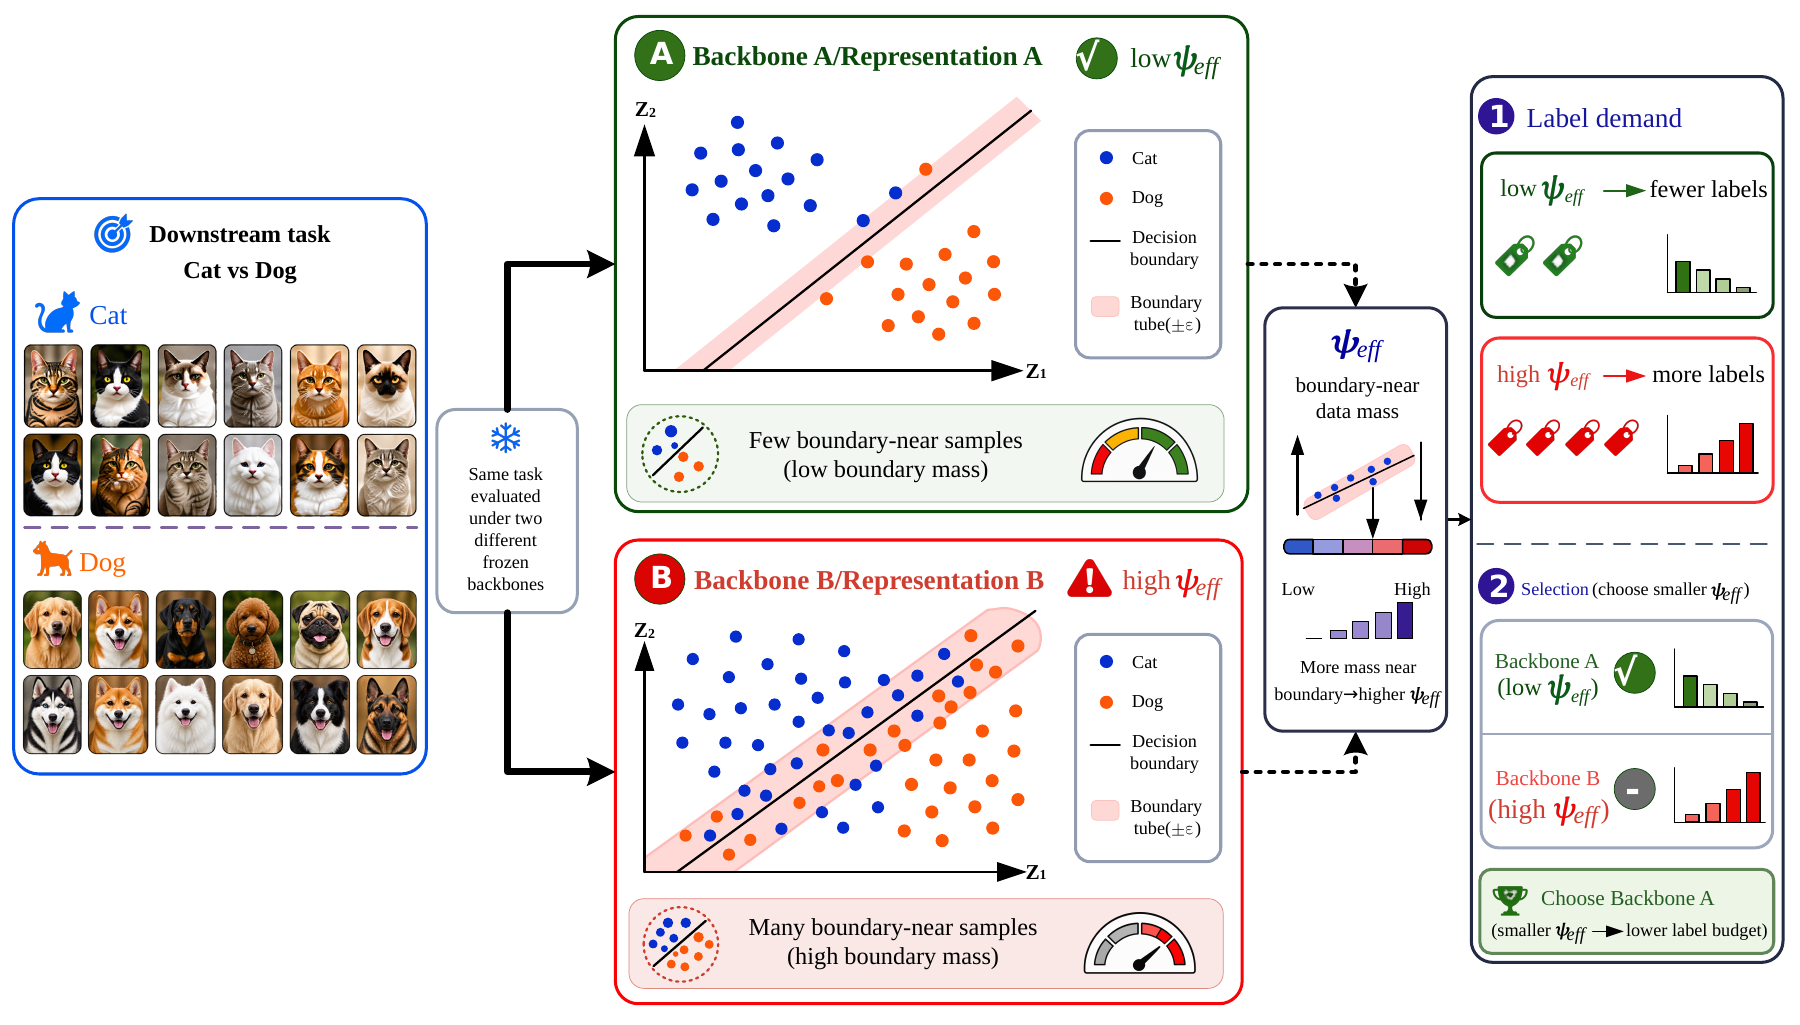
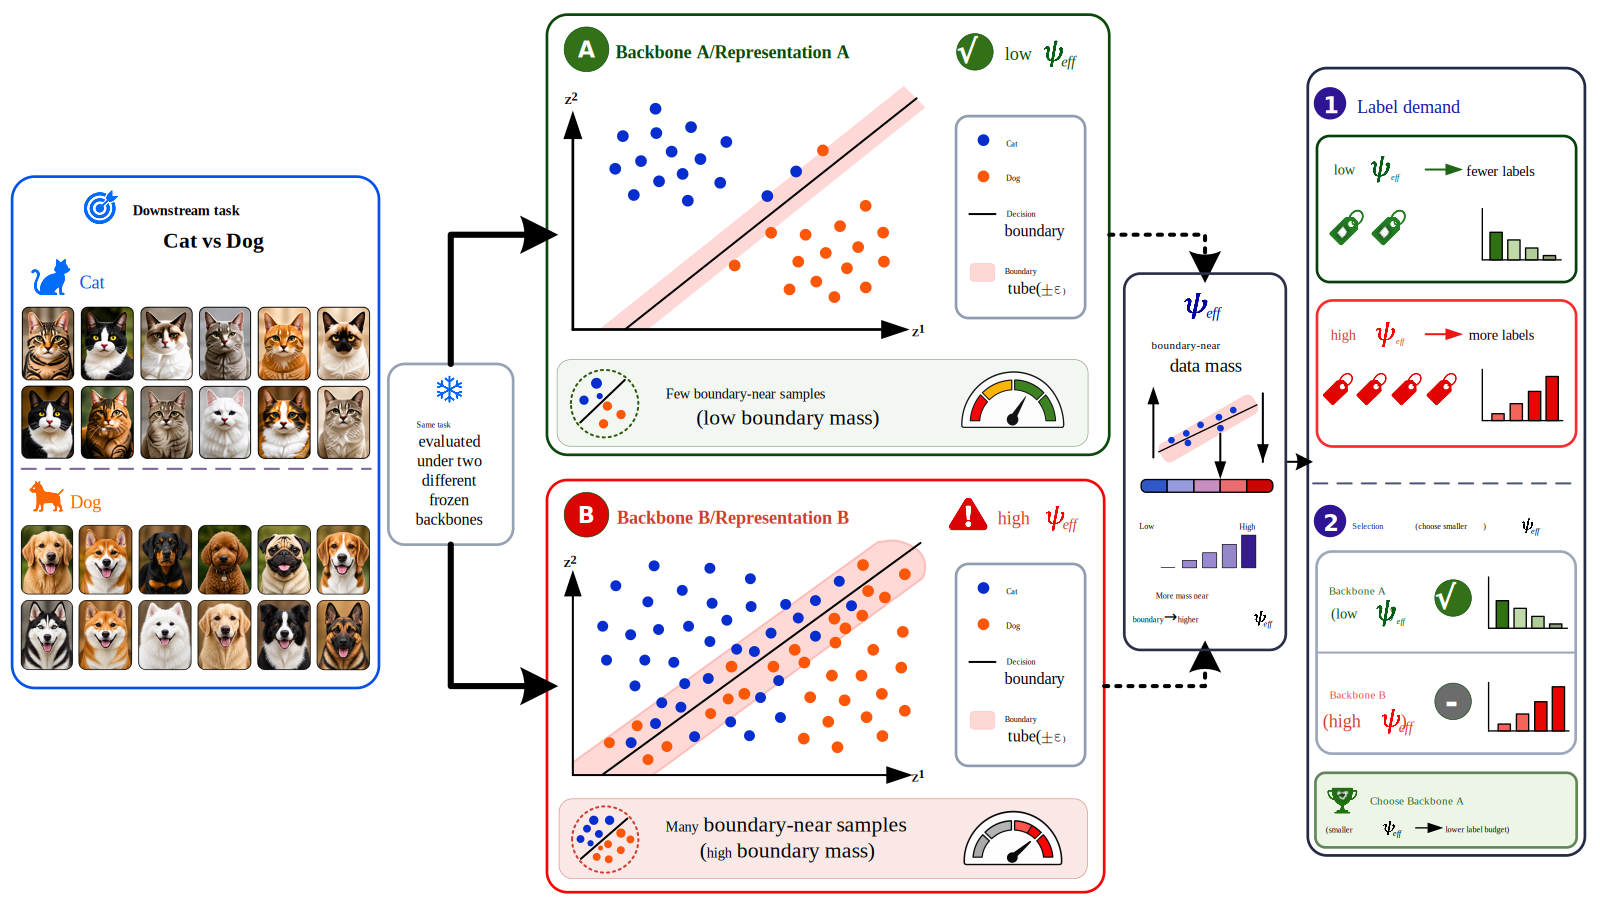
v2

diff --git a/train_end_to_end.py b/train_end_to_end.py
@@ -113,7 +113,7 @@ def build_model(arch: str, num_classes: int = 100) -> nn.Module:
 
 def parse_args() -> argparse.Namespace:
     parser = argparse.ArgumentParser(
-        description="End-to-end psi experiment plus downstream low-label probe."
+        description="End-to-end boundary-pressure experiment and downstream low-label probe."
     )
     parser.add_argument("--data-dir", type=Path, required=True)
     parser.add_argument("--output-dir", type=Path, required=True)
@@ -124,15 +124,15 @@ def parse_args() -> argparse.Namespace:
     parser.add_argument(
         "--arch", type=str, default="compact", choices=["compact", "resnet18"]
     )
-    parser.add_argument("--modes", type=str, default="standard,weight_decay,psieff")
+    parser.add_argument("--modes", type=str, default="standard,weight_decay,boundary_pressure")
     parser.add_argument("--batch-size", type=int, default=64)
     parser.add_argument("--eval-batch-size", type=int, default=256)
     parser.add_argument("--probe-epochs", type=int, default=160)
     parser.add_argument("--probe-budgets", type=str, default="5,10,20,50")
     parser.add_argument("--probe-seeds", type=str, default="42,43,44")
     parser.add_argument("--lr", type=float, default=3e-3)
-    parser.add_argument("--psi-lr", type=float, default=3.5e-3)
-    parser.add_argument("--lambda-psi", type=float, default=0.12)
+    parser.add_argument("--pressure-lr", "--psi-lr", dest="psi_lr", type=float, default=3.5e-3)
+    parser.add_argument("--lambda-pressure", "--lambda-psi", dest="lambda_psi", type=float, default=0.12)
     parser.add_argument("--lambda-margin", type=float, default=0.1)
     parser.add_argument("--lambda-entropy", type=float, default=0.01)
     parser.add_argument("--weight-decay", type=float, default=5e-4)
@@ -206,13 +206,13 @@ def make_loader(
     )
 
 
-def compute_psi_surrogate_loss(
-    features: torch.Tensor,
+def compute_boundary_pressure_loss(
     logits: torch.Tensor,
     labels: torch.Tensor,
     weight: torch.Tensor,
     margin_eps: float = 0.2,
 ) -> torch.Tensor:
+    """Apply true-class-versus-rival margin pressure and a head-norm penalty."""
     correct_logits = logits.gather(1, labels.unsqueeze(1)).squeeze(1)
     masked_logits = logits.masked_fill(
         F.one_hot(labels, num_classes=logits.shape[1]).bool(), -torch.inf
@@ -366,7 +366,7 @@ def train_mode(
     model = build_model(args.arch, num_classes=args.num_classes)
     model.load_state_dict(copy.deepcopy(initial_state))
     model.to(device)
-    if mode == "psieff":
+    if mode in {"boundary_pressure", "psieff"}:
         optimizer = optim.SGD(
             model.parameters(), lr=args.psi_lr, momentum=0.9, weight_decay=0.0
         )
@@ -405,11 +405,11 @@ def train_mode(
             images = images.to(device, non_blocking=True)
             targets = targets.to(device, non_blocking=True)
             optimizer.zero_grad(set_to_none=True)
-            if mode == "psieff":
-                features, logits = model.get_features_and_logits(images)
+            if mode in {"boundary_pressure", "psieff"}:
+                _, logits = model.get_features_and_logits(images)
                 ce = criterion(logits, targets)
-                reg = compute_psi_surrogate_loss(
-                    features, logits, targets, model.classifier.weight
+                reg = compute_boundary_pressure_loss(
+                    logits, targets, model.classifier.weight
                 )
                 loss = ce + args.lambda_psi * reg
             elif mode == "margin":

diff --git a/experiments/mnist_training.py b/experiments/mnist_training.py
@@ -13,6 +13,7 @@ from torchvision.datasets import MNIST
 import matplotlib
 matplotlib.use('Agg')
 import matplotlib.pyplot as plt
+from utils.boundary import estimate_boundary_mass
 
 
 class BinaryCNN(nn.Module):
@@ -49,8 +50,7 @@ def main():
     train=DataLoader(datasets[0],batch_size=64,shuffle=True)
     test=DataLoader(datasets[1],batch_size=512,shuffle=False)
     experiment_ids=torch.randperm(len(datasets[1]),generator=torch.Generator().manual_seed(args.seed))[:512]
-    ax,ay=[v[experiment_ids].to(device) for v in datasets[1].tensors]
-    beta=min(ay.float().mean().item(),1-ay.float().mean().item())
+    ax=datasets[1].tensors[0][experiment_ids].to(device)
     model=BinaryCNN().to(device)
     optimizer=torch.optim.Adam(model.parameters(),lr=1e-3)
     rows=[]
@@ -73,8 +73,9 @@ def main():
             dist_logit=gap/np.sqrt(2.)
             row={'epoch':epoch,'train_accuracy':train_correct/len(datasets[0]),'accuracy':correct/len(datasets[1]),'test_error':1-correct/len(datasets[1])}
             for name,dist in [('feature',dist_feature),('logit',dist_logit)]:
-                row['psi_hard_'+name]=float((dist.abs()<=args.eps).float().mean().item()/(args.eps*beta))
-                row['psi_kernel_'+name]=float(torch.exp(-.5*(dist/args.eps)**2).mean().item()/(args.eps*np.sqrt(2*np.pi)*beta))
+                distances=dist.cpu().numpy()
+                row['psi_hard_'+name]=estimate_boundary_mass(distances,args.eps)
+                row['psi_kernel_'+name]=estimate_boundary_mass(distances,args.eps,kernel='gaussian')
             rows.append(row)
             print(json.dumps(row),flush=True)
     with (args.output_dir/'epochs.csv').open('w') as f:
@@ -86,7 +87,7 @@ def main():
             correlations[metric+'_vs_'+target]=float(np.corrcoef(a,b)[0,1]) if a.std()>0 and b.std()>0 else None
     summary={
              'model_settings':{'digits':[3,5],'conv_filters':[32,64],'fc_units':128,'optimizer':'Adam','lr':1e-3,'batch_size':64,'experiment_test_examples':512,'epochs_shown_in_figure':10},
-             'settings':{'seed':args.seed,'epochs':args.epochs,'eps':args.eps,'kernel_size':3,'padding':1,'pooling':'2x2 after each conv','input_normalization':'[0,1]','fixed_test_experiment_subset':True,'class_balance':'true labels'},
+             'settings':{'seed':args.seed,'epochs':args.epochs,'eps':args.eps,'kernel_size':3,'padding':1,'pooling':'2x2 after each conv','input_normalization':'[0,1]','fixed_test_experiment_subset':True,'class_balance':'predicted classes','boundary_coefficient':'two-sided'},
              'correlations':correlations,'final':rows[-1]}
     (args.output_dir/'summary.json').write_text(json.dumps(summary,indent=2))
     torch.save({'model_state':model.state_dict(),'args':vars(args)},args.output_dir/'last.pt')

diff --git a/utils/boundary.py b/utils/boundary.py
@@ -1,0 +1,33 @@
+"""Two-sided boundary-tube estimates for a fitted binary separator."""
+
+import numpy as np
+
+
+def estimate_boundary_mass(signed_distances, epsilon, *, kernel="hard"):
+    """Estimate effective boundary complexity using predicted-class balance.
+
+    ``signed_distances`` contains independent diagnostic distances to a fixed
+    fitted head. ``hard`` estimates tube probability divided by width and
+    balance; ``gaussian`` estimates twice the density at zero divided by balance.
+    Both target the two-sided coefficient in the paper as bandwidth shrinks.
+    """
+    distances = np.asarray(signed_distances, dtype=float)
+    if distances.ndim != 1 or distances.size == 0:
+        raise ValueError("signed_distances must be a nonempty one-dimensional array")
+    if not np.all(np.isfinite(distances)):
+        raise ValueError("signed_distances must contain finite values")
+    if not np.isfinite(epsilon) or epsilon <= 0:
+        raise ValueError("epsilon must be finite and positive")
+    positive_mass = float(np.mean(distances >= 0))
+    balance = min(positive_mass, 1.0 - positive_mass)
+    if balance <= 0:
+        raise ValueError("The diagnostic pool must cover both predicted classes")
+    if kernel == "hard":
+        coefficient = np.mean(np.abs(distances) <= epsilon) / epsilon
+    elif kernel == "gaussian":
+        with np.errstate(over="ignore"):
+            weights = np.exp(-0.5 * (distances / epsilon) ** 2)
+        coefficient = 2.0 * weights.mean() / (np.sqrt(2.0 * np.pi) * epsilon)
+    else:
+        raise ValueError("kernel must be 'hard' or 'gaussian'")
+    return float(coefficient / balance)

diff --git a/demo.py b/demo.py
@@ -5,6 +5,7 @@ from pathlib import Path
 import csv
 import numpy as np
 import matplotlib.pyplot as plt
+from utils.boundary import estimate_boundary_mass
 
 ROOT = PROJECT_ROOT
 DATA = PROJECT_ROOT / "examples/toy_boundary_features.csv"
@@ -37,7 +38,7 @@ predicted_positive_mass = float(np.mean(dist >= 0))
 class_balance = min(predicted_positive_mass, 1.0 - predicted_positive_mass)
 if class_balance <= 0:
     raise RuntimeError("The diagnostic pool must occupy both predicted classes")
-psi_hat = tube_mass / (EPS * class_balance)
+psi_hat = estimate_boundary_mass(dist, EPS)
 
 print(f"demo epsilon: {EPS:.3f}")
 print(f"diagnostic tube mass: {tube_mass:.4f}")

diff --git a/docs/EXPERIMENTS.md b/docs/EXPERIMENTS.md
@@ -51,6 +51,31 @@ python run.py pilot_refitting --output-dir outputs/selection -- --n-seeds 5 --n-
 
 `--raw-metrics` and `--selections` accept previously computed experiment outputs for statistical aggregation.
 
+## Score conventions
+
+`utils.boundary.estimate_boundary_mass` implements the paper's two-sided binary coefficient. For signed distance `s` and predicted-class balance `beta`, the hard score is `mean(abs(s) <= epsilon) / (epsilon * beta)`. Its Gaussian version is `2 * mean(phi(s / epsilon)) / (epsilon * beta)`, where `phi` is the standard normal density.
+
+The binary backbone-selection, acquisition, and pilot-refitting tables use one-sided Gaussian surface-density scores and the smaller observed label frequency `alpha_y`. Their kernel score is `mean(phi(s / epsilon)) / (epsilon * alpha_y)`; the companion hard score divides tube probability by `2 * epsilon * alpha_y`. Multiplying either by `2 * alpha_y / beta` gives the corresponding two-sided, predicted-balance score. Regression and policy results use the scores produced by their respective experiment entry points.
+
+Multiclass comparison uses class-versus-leading-rival distances and a top-two interface gate. End-to-end monitoring averages classwise hard and triangular-kernel scores, using observed class frequencies with a 0.01 floor. The standalone MNIST training example uses the canonical two-sided helper with predicted-class balance at each checkpoint.
+
+## End-to-end boundary pressure
+
+`train_end_to_end.py` uses cross entropy plus a boundary-pressure proxy: half the hinge penalty on the true-class-versus-leading-rival logit margin, plus 0.05 times the head's Frobenius norm. The default margin threshold is 0.2. Held-out boundary-mass scores measure the resulting feature geometry.
+
+```bash
+python train_end_to_end.py --data-dir data --output-dir outputs/end_to_end \
+  --modes standard,boundary_pressure
+```
+
+The `boundary_pressure` mode accepts `--lambda-pressure` and `--pressure-lr`. The aliases `psieff`, `--lambda-psi`, and `--psi-lr` support existing command files. Monitoring readouts use test images; prospective backbone-selection diagnostics use independent held-out training features.
+
+For binary MNIST checkpoint measurements:
+
+```bash
+python -m experiments.mnist_training --data-dir data --output-dir outputs/mnist --epochs 10
+```
+
 ## Plotting
 
 After computing the corresponding experiments:

diff --git a/README.md b/README.md
@@ -10,7 +10,7 @@ Shanghai University · *Equal contribution
 [![Python](https://img.shields.io/badge/Python-3.10%2B-3776AB?style=for-the-badge&logo=python&logoColor=white)](#getting-started)
 [![License](https://img.shields.io/badge/License-MIT-4C7A52?style=for-the-badge)](LICENSE)
 
-[Introduction](#introduction) · [Getting Started](#getting-started) · [Usage](#usage) · [Results](#results) · [Experiments](docs/EXPERIMENTS.md)
+[Code](https://github.com/qqaqq-code/boundary_mass) · [Introduction](#introduction) · [Getting Started](#getting-started) · [Usage](#usage) · [Results](#results) · [Experiments](docs/EXPERIMENTS.md)
 
 </div>
 
@@ -31,6 +31,8 @@ Shanghai University · *Equal contribution
 2. Compute signed distances on independent diagnostic features while keeping the probe fixed.
 3. Normalize tube membership by tube width and predicted-class balance.
 4. Compare candidates in the conventional top-2 shortlist.
+
+![Boundary-normal pushforward mechanism](figures/mechanism.png)
 
 <a id="getting-started"></a>
 ## ✨ Getting Started
@@ -63,15 +65,14 @@ For standardized diagnostic features `Z`, a fitted binary head `(w, b)`, and a p
 
 ```python
 import numpy as np
+from utils.boundary import estimate_boundary_mass
 
 signed_distance = (Z @ w + b) / np.linalg.norm(w)
-tube_mass = np.mean(np.abs(signed_distance) <= epsilon)
-positive_mass = np.mean(signed_distance >= 0)
-class_balance = min(positive_mass, 1.0 - positive_mass)
-psi_hat = tube_mass / (epsilon * class_balance)
+psi_hat = estimate_boundary_mass(signed_distance, epsilon)
+psi_kernel = estimate_boundary_mass(signed_distance, epsilon, kernel="gaussian")
 ```
 
-Use a fitted head with a positive normal norm and diagnostic samples covering both predicted classes. Binary scoring costs **O(Nd)**; C-class OvR scoring costs **O(NCd)**.
+Use a fitted head with a positive normal norm and diagnostic samples covering both predicted classes. Binary scoring costs **O(Nd)**; C-class OvR scoring costs **O(NCd)**. Both estimates use the two-sided boundary coefficient and predicted-class balance. The [experiment guide](docs/EXPERIMENTS.md#score-conventions) gives the score conventions used by each experiment.
 
 ### Synthetic geometry
 
